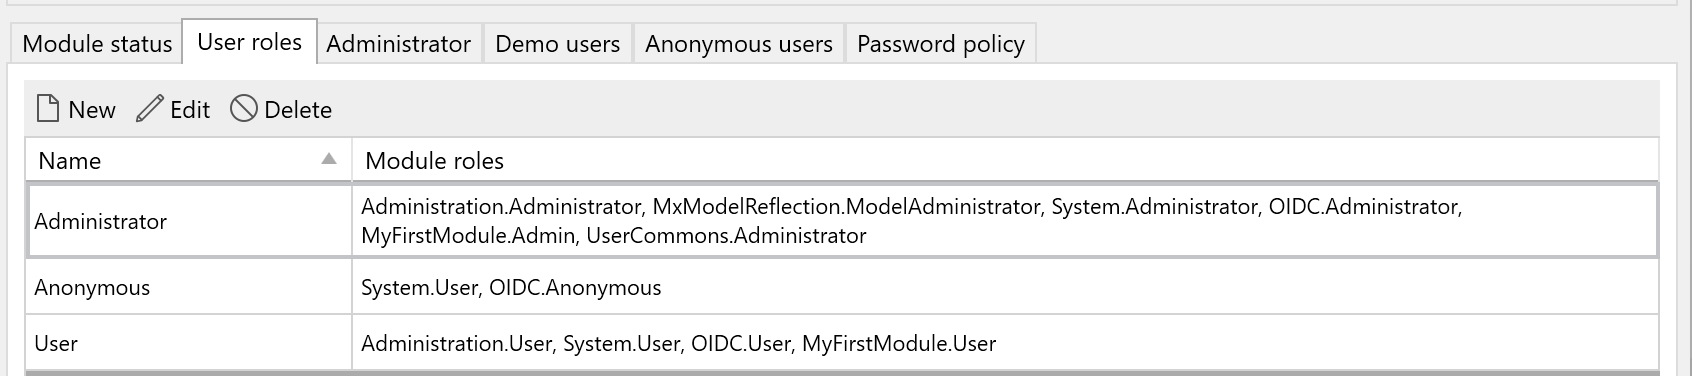
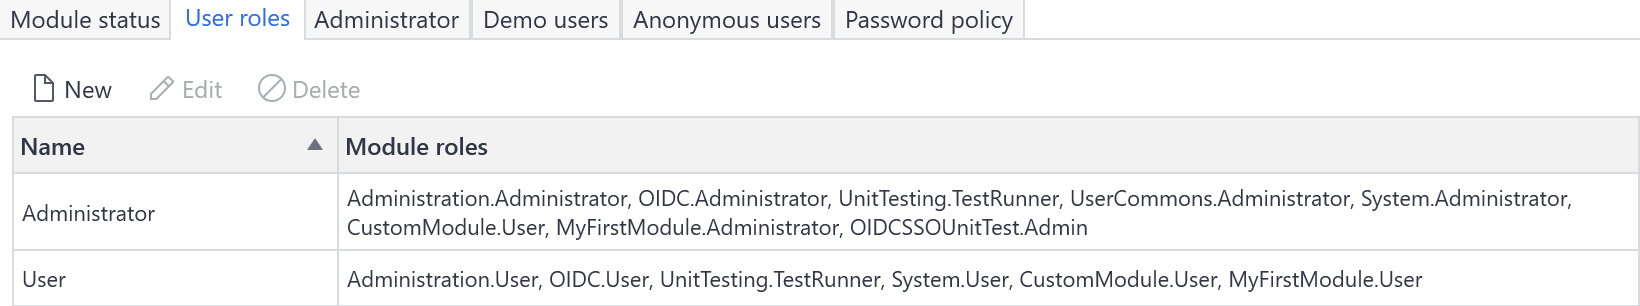
New image without anonymous user

Changed region(s): [[0.0, 0.0, 1.0, 1.0], [0.1866, 0.8824, 0.8707, 0.9412]]

diff --git a/content/en/docs/marketplace/platform-supported-content/modules/oidc.md b/content/en/docs/marketplace/platform-supported-content/modules/oidc.md
@@ -234,6 +234,8 @@ Ensure that you have allocated the following user roles to the OIDC module and U
 | Anonymous | OIDC.Anonymous (optional) |
 | User | OIDC.User |
 
+{{< figure src="/attachments/appstore/platform-supported-content/modules/oidc/user-roles.png" >}}
+
 ### Allowing Anonymous User Role 
 
 #### User Roles for Single IdP
@@ -244,7 +246,7 @@ If a single Identity Provider (IdP) is configured in the OIDC SSO module, end-us
 
 The OIDC module supports multiple OIDC/OAuth-compatible IdPs. Optionally, if you allow your end-users to choose from multiple IdPs, or to have the option to log back into the app after they have logged out, you will need to give them access to the app before they have signed in to the app. Therefore, you need to give anonymous users access to your app.
 
-{{< figure src="/attachments/appstore/platform-supported-content/modules/oidc/user-roles.png" class="no-border" >}}
+{{< figure src="/attachments/appstore/platform-supported-content/modules/oidc/user-roles-anonymous.png" class="no-border" >}}
 
 In the **Anonymous** tab of the app security settings, do the following:
 
